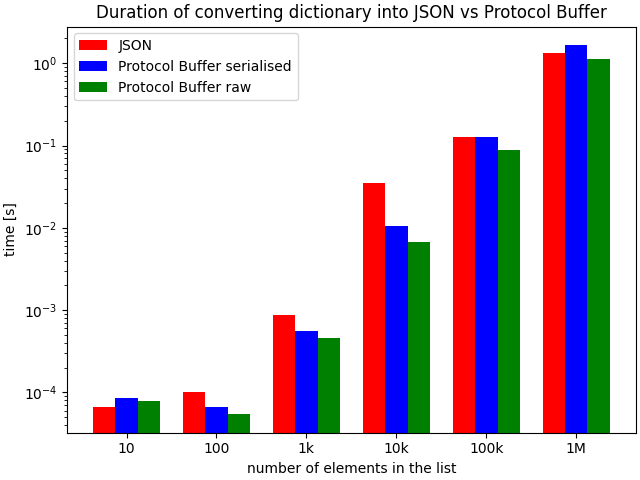
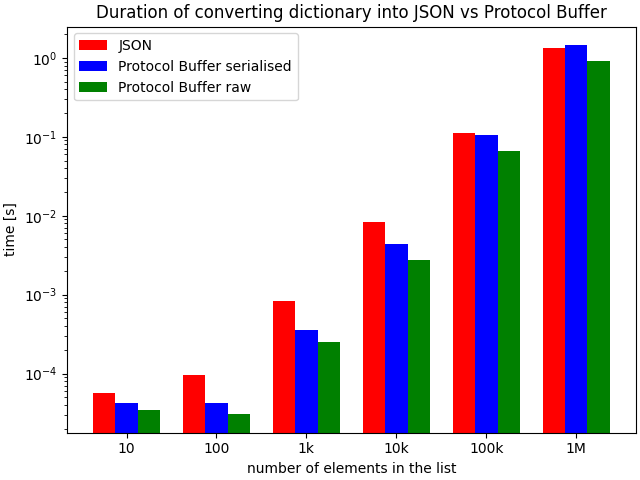
docs: use average of 100 runs in measurements

diff --git a/experiment.py b/experiment.py
@@ -240,7 +240,16 @@ def plot_graph(plot_name: str, values: list, tick_label: list, x_ax: list) -> No
     plt.show()
 
 
-def list_generator():
+def compute_avg_list(aggregated_list) -> list:
+    result = [0] * len(aggregated_list[0])
+    for measurement in aggregated_list:
+        for i in range(len(measurement)):
+            result[i] += measurement[i]
+    result = list(map(lambda x: x / len(aggregated_list), result))
+    return result
+
+
+def list_generator(measurements: int = 1):
     """
     Generate list of string with following number of elements [10, 100, 1000, 10000, 100000, 1000000]
 
@@ -251,26 +260,39 @@ def list_generator():
     for size in sizes:
         inputs.append(get_list(size))
     json_val = []
-    json_duration = []
     proto_val = []
-    proto_raw_duration = []
-    proto_duration = []
-    for element in inputs:
-        start = time.time()
-        json_val.append(json.dumps(element))
-        json_duration.append(time.time() - start)
+    aggregated_time_json = []
+    aggregated_time_proto = []
+    aggregated_time_proto_raw = []
+    for _ in range(measurements):
+        json_val = []
+        proto_val = []
+        json_duration = []
+        proto_raw_duration = []
+        proto_duration = []
+        for element in inputs:
+            start = time.time()
+            json_val.append(json.dumps(element))
+            json_duration.append(time.time() - start)
 
-        start = time.time()
-        proto_val.append(get_proto_array(element))
-        proto_raw_duration.append(time.time() - start)
-        start = time.time()
-        proto_val[-1].SerializeToString()
-        proto_duration.append(time.time() - start + proto_raw_duration[-1])
+            start = time.time()
+            proto_val.append(get_proto_array(element))
+            proto_raw_duration.append(time.time() - start)
+            start = time.time()
+            proto_val[-1].SerializeToString()
+            proto_duration.append(time.time() - start + proto_raw_duration[-1])
+        aggregated_time_json.append(json_duration)
+        aggregated_time_proto.append(proto_duration)
+        aggregated_time_proto_raw.append(proto_raw_duration)
+
+    json_duration = compute_avg_list(aggregated_time_json)
+    proto_duration = compute_avg_list(aggregated_time_proto)
+    proto_raw_duration = compute_avg_list(aggregated_time_proto_raw)
 
     return json_val, proto_val, json_duration, proto_duration, proto_raw_duration
 
 
-def dict_generator(long_key: bool = False):
+def dict_generator(long_key: bool = False, measurements: int = 1):
     """
     Generate dict of string with following number of elements [10, 100, 1000, 10000, 100000, 1000000]
 
@@ -281,21 +303,34 @@ def dict_generator(long_key: bool = False):
     for size in sizes:
         inputs.append(get_dict(size, long_key))
     json_val = []
-    json_duration = []
     proto_val = []
-    proto_raw_duration = []
-    proto_duration = []
-    for element in inputs:
-        start = time.time()
-        json_val.append(json.dumps(element))
-        json_duration.append(time.time() - start)
+    aggregated_time_json = []
+    aggregated_time_proto = []
+    aggregated_time_proto_raw = []
+    for i in range(measurements):
+        json_val = []
+        proto_val = []
+        json_duration = []
+        proto_raw_duration = []
+        proto_duration = []
+        for element in inputs:
+            start = time.time()
+            json_val.append(json.dumps(element))
+            json_duration.append(time.time() - start)
 
-        start = time.time()
-        proto_val.append(get_proto_dictionary(element))
-        proto_raw_duration.append(time.time() - start)
-        start = time.time()
-        proto_val[-1].SerializeToString()
-        proto_duration.append(time.time() - start + proto_raw_duration[-1])
+            start = time.time()
+            proto_val.append(get_proto_dictionary(element))
+            proto_raw_duration.append(time.time() - start)
+            start = time.time()
+            proto_val[-1].SerializeToString()
+            proto_duration.append(time.time() - start + proto_raw_duration[-1])
+        aggregated_time_json.append(json_duration)
+        aggregated_time_proto.append(proto_duration)
+        aggregated_time_proto_raw.append(proto_raw_duration)
+
+    json_duration = compute_avg_list(aggregated_time_json)
+    proto_duration = compute_avg_list(aggregated_time_proto)
+    proto_raw_duration = compute_avg_list(aggregated_time_proto_raw)
 
     return json_val, proto_val, json_duration, proto_duration, proto_raw_duration
 
@@ -308,14 +343,19 @@ original_format = set_message_format('proto')
 envelopes_proto = generate_envelopes()
 set_message_format(original_format)
 
-# measure_envelopes(envelopes_json, envelopes_proto, 'envelopes_json_vs_proto')
+measure_envelopes(envelopes_json, envelopes_proto, 'envelopes_json_vs_proto')
 
-# json_list, proto_list, json_time, proto_time, proto_raw_time = list_generator()
-# measure_lists(json_list, proto_list, 'list_json_vs_proto')
-# plot_grouped_graph(json_time, proto_time, proto_raw_time, 'time_list_json_vs_proto', 'time [s]',
-#                    'Duration of converting list into JSON vs Protocol Buffer')
+json_list, proto_list, json_time, proto_time, proto_raw_time = list_generator(100)
+measure_size(json_list, proto_list, 'list_json_vs_proto')
+plot_grouped_graph(json_time, proto_time, proto_raw_time, 'time_list_json_vs_proto', 'time [s]',
+                   'Duration of converting list into JSON vs Protocol Buffer')
 
-json_dict, proto_dict, json_dict_time, proto_dict_time, proto_dict_raw_time = dict_generator()
+json_dict, proto_dict, json_dict_time, proto_dict_time, proto_dict_raw_time = dict_generator(True, 100)
+measure_size(json_dict, proto_dict, 'dict_json_vs_proto')
+plot_grouped_graph(json_dict_time, proto_dict_time, proto_dict_raw_time, 'time_dict_json_vs_proto', 'time [s]',
+                   'Duration of converting dictionary into JSON vs Protocol Buffer')
+
+json_dict, proto_dict, json_dict_time, proto_dict_time, proto_dict_raw_time = dict_generator(False, 100)
 measure_size(json_dict, proto_dict, 'dict_short_json_vs_proto')
 plot_grouped_graph(json_dict_time, proto_dict_time, proto_dict_raw_time, 'time_dict_short_json_vs_proto', 'time [s]',
                    'Duration of converting dictionary into JSON vs Protocol Buffer')
